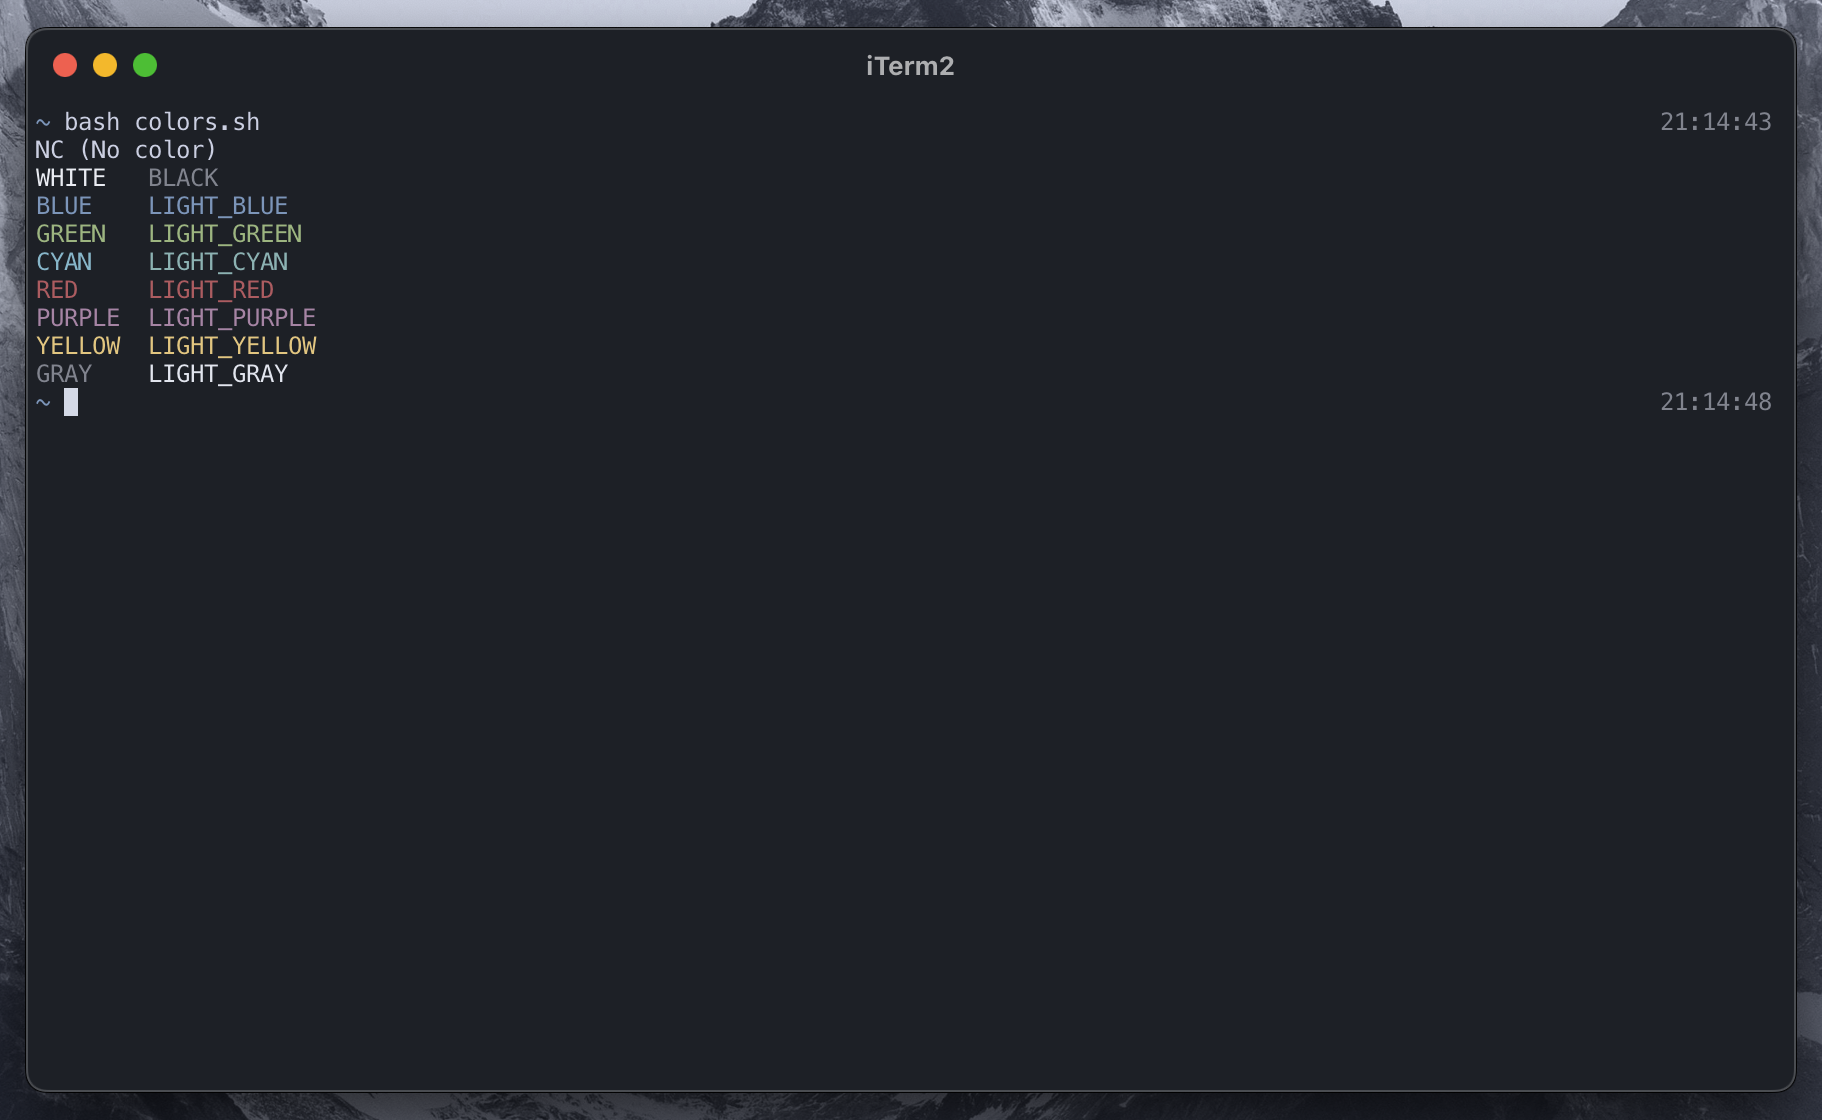
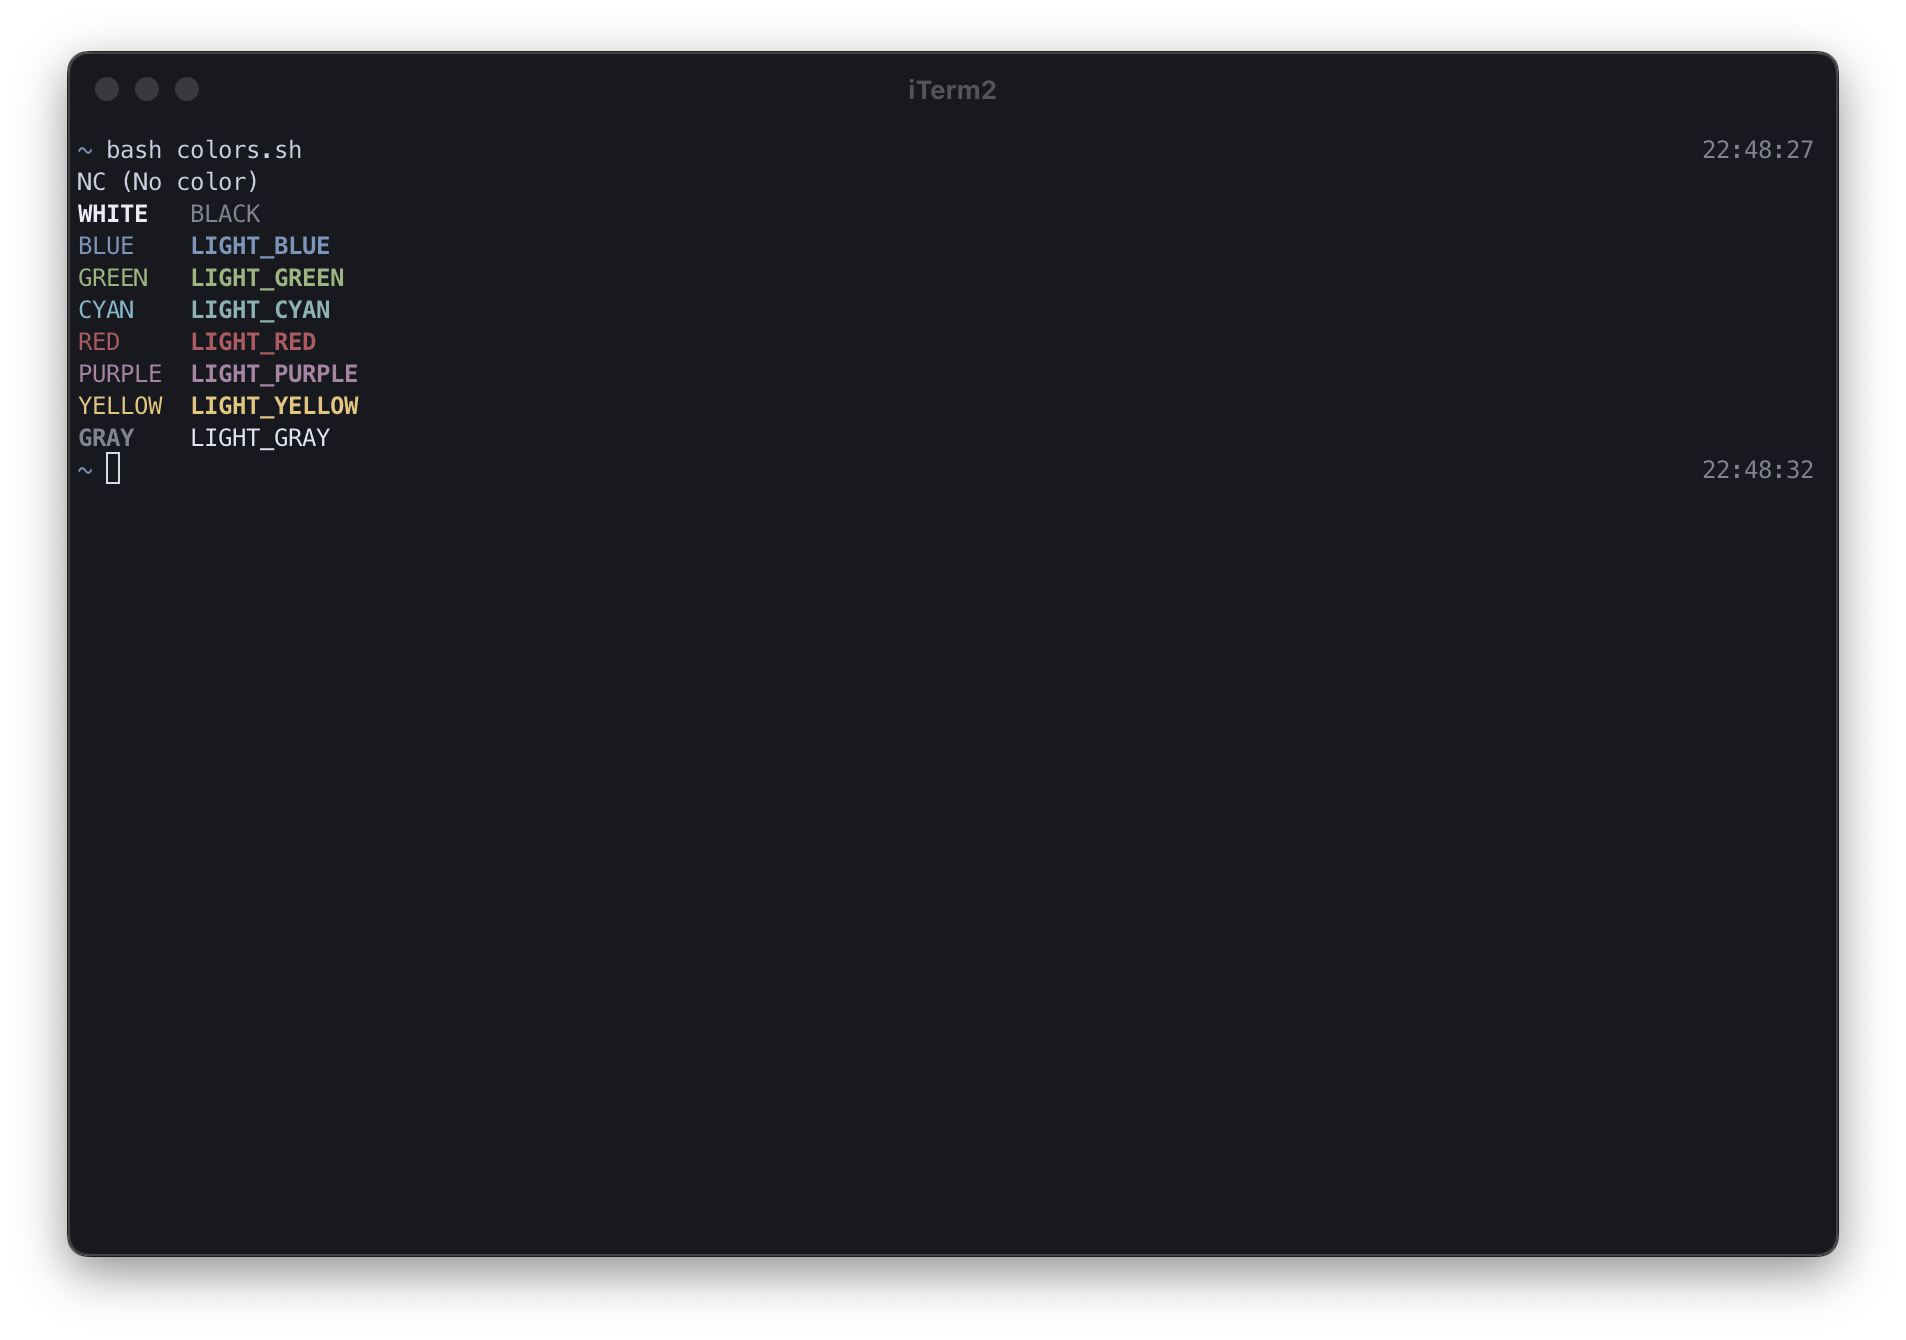
Update background color

Changed region(s): [[0.0, 0.0, 1.0, 1.0]]

diff --git a/README.md b/README.md
@@ -13,7 +13,7 @@ A darker version of [Nord](https://www.nordtheme.com/) theme for iTerm2.
 
 | Text     | Foreground | Background |
 | -------- | :--------: | :--------: |
-| Default  | `#d0d5e5`  | `#1e232b`  |
+| Default  | `#d0d5e5`  | `#181a21`  |
 | Selected | `#d8dde8`  | `#4c5569`  |
 
 | Color   |  Normal   |  Bright   |
